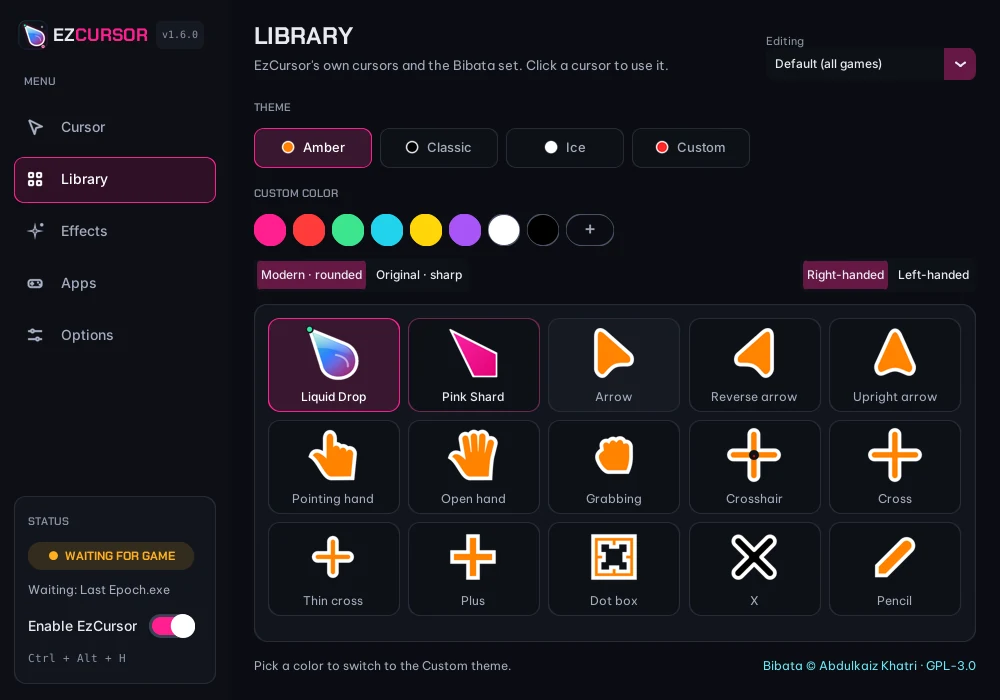
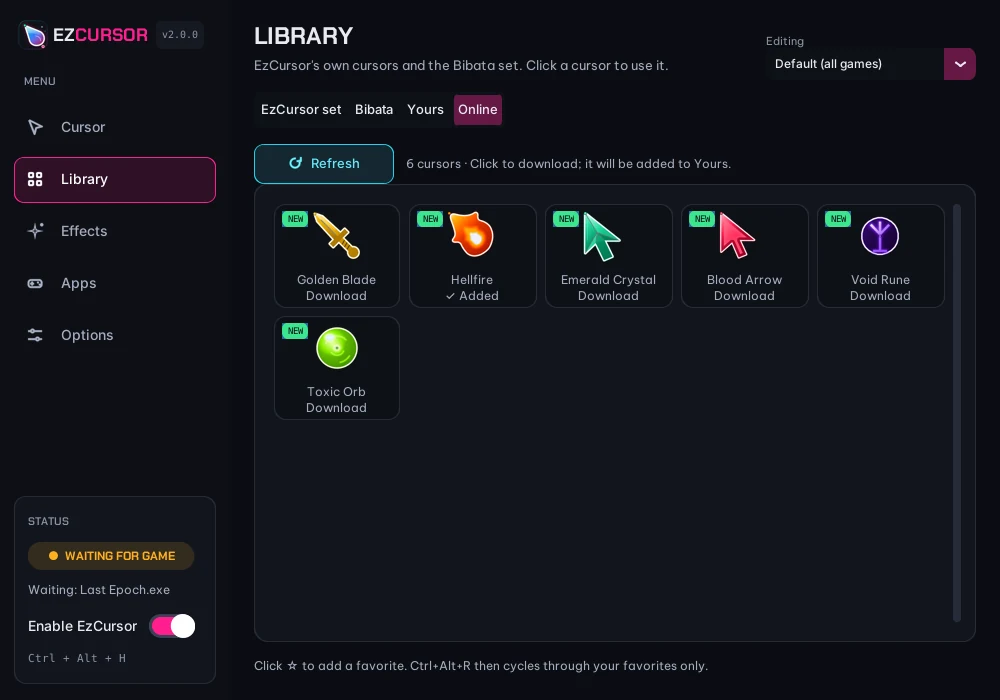
fix UI 1

diff --git a/main.js b/main.js
@@ -103,10 +103,10 @@
       libDl: "Tải về", libNew: "MỚI",
       caps: {
         cursor: "Chọn hình dạng, màu và kích thước, xem trước trực tiếp. Ô Đang chỉnh chọn hồ sơ của từng game.",
-        library: "Liquid Drop, Mảnh hồng và 13 con trỏ Bibata, có chủ đề màu và bản cho tay trái.",
+        library: "Bộ EzCursor, Bibata, con trỏ của bạn và kho Trực tuyến với mẫu mới tải về chỉ bằng một cú bấm. Nút ☆ đánh dấu con trỏ yêu thích.",
         fx: "Vệt theo con trỏ, hiệu ứng khi click và nút thử ngay trên màn hình.",
         apps: "Game đang chạy và gợi ý các game ARPG phổ biến. Tích chọn, bấm Áp dụng, hoặc tạo hồ sơ riêng cho từng game.",
-        opts: "Ngôn ngữ, khởi động cùng Windows, cập nhật và phím tắt tự đặt."
+        opts: "Ngôn ngữ, khởi động cùng Windows, cập nhật, phím tắt tự đặt và lắc chuột để tìm con trỏ."
       }
     },
     en: {
@@ -119,10 +119,10 @@
       libDl: "Download", libNew: "NEW",
       caps: {
         cursor: "Pick a shape, color and size with a live preview. The Editing box picks each game's profile.",
-        library: "Liquid Drop, Pink Shard and 13 Bibata cursors, with color themes and left-handed versions.",
+        library: "The EzCursor set, Bibata, your own cursors and the Online catalog with new designs one click away. The ☆ button marks favorites.",
         fx: "Cursor trails, click effects and a button to try them on screen.",
         apps: "Running games plus suggested popular ARPGs. Tick and Apply, or give a game its own profile.",
-        opts: "Language, start with Windows, updates and custom hotkeys."
+        opts: "Language, start with Windows, updates, custom hotkeys and shake to find your cursor."
       }
     }
   };
@@ -206,7 +206,7 @@
     });
     var img = $("#shot-img");
     var label = (tabs.filter(function (t) { return t.dataset.shot === key; })[0] || {}).textContent || key;
-    img.src = "images/app-" + key + "-" + lang + ".webp";
+    img.src = "images/app-" + key + "-" + lang + ".webp?v=2.0.0";
     img.alt = STR[lang].shotAlt.replace("{t}", label);
     $("#shot-cap").textContent = STR[lang].caps[key];
   }
@@ -223,7 +223,7 @@
   // Tải trước ảnh các tab để bấm là hiện ngay
   window.addEventListener("load", function () {
     ["vi", "en"].forEach(function (l) {
-      tabs.forEach(function (t) { new Image().src = "images/app-" + t.dataset.shot + "-" + l + ".webp"; });
+      tabs.forEach(function (t) { new Image().src = "images/app-" + t.dataset.shot + "-" + l + ".webp?v=2.0.0"; });
     });
   });
 

diff --git a/index.html b/index.html
@@ -17,7 +17,7 @@
 <link rel="apple-touch-icon" href="images/apple-touch-icon.png">
 <link rel="preload" href="fonts/ChakraPetch-Bold.woff2" as="font" type="font/woff2" crossorigin>
 <link rel="preload" href="fonts/BeVietnamPro-Regular.woff2" as="font" type="font/woff2" crossorigin>
-<link rel="stylesheet" href="style.css?v=2.0.0">
+<link rel="stylesheet" href="style.css?v=2.0.1">
 </head>
 <body>
 <a class="skip" href="#main" data-i18n="skip">Bỏ qua tới nội dung</a>
@@ -108,7 +108,7 @@
       <button role="tab" aria-selected="false" data-shot="opts" data-i18n="tab.opts">Tùy chọn</button>
     </div>
     <figure class="shot" role="tabpanel">
-      <img id="shot-img" src="images/app-cursor-vi.webp" width="1000" height="700" alt="Tab Con trỏ của EzCursor">
+      <img id="shot-img" src="images/app-cursor-vi.webp?v=2.0.0" width="1000" height="700" alt="Tab Con trỏ của EzCursor">
       <figcaption id="shot-cap">Chọn hình dạng, màu và kích thước, xem trước trực tiếp.</figcaption>
     </figure>
   </div>
@@ -251,7 +251,7 @@
 </footer>
 
 <div class="toast" role="status" aria-live="polite"></div>
-<script src="config.js?v=2.0.0"></script>
-<script src="main.js?v=2.0.0"></script>
+<script src="config.js?v=2.0.1"></script>
+<script src="main.js?v=2.0.1"></script>
 </body>
 </html>
